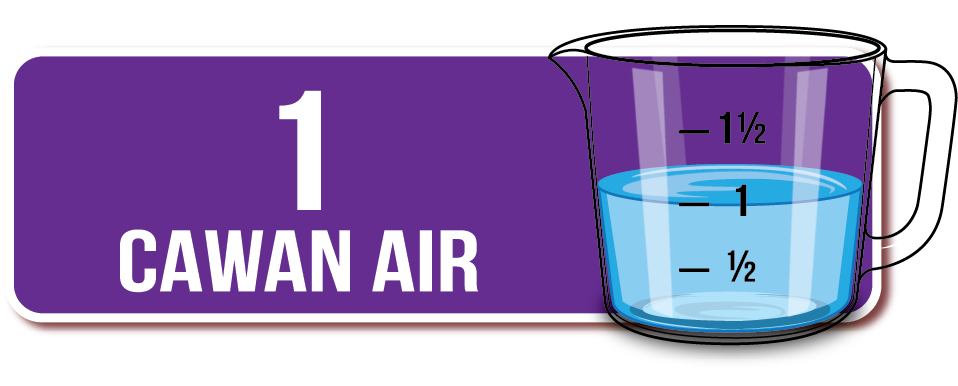
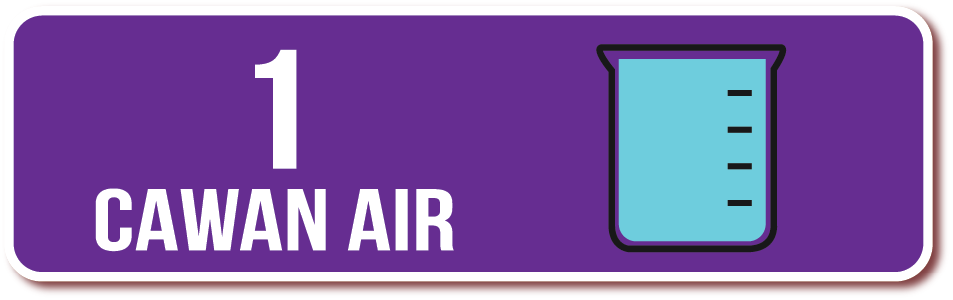
[Phase 6/Task 2] Swap the three measure bars to the new sprites and move Basmathi to 1.8 cawan air - the top bar was relabelled by the client
=== TECHNICAL CHANGES ===
• img/bar-1-8.png: new green 1.8 CAWAN AIR sprite (953x299) replaces bar-1half.png, which is removed; img/bar-1.png and img/bar-half.png overwritten with the matching new purple and orange sprites (953x300) - tight plate crops, no jug overhang
• index.html: top measure bar is now id opt-1-8 / data-water 1.8 / alt 1.8 cawan air, pointing at bar-1-8.png; the other two bars keep their ids and srcs
• script/js/game.js: ANSWER_KEY.basmathi '1.5' -> '1.8'; doc comment now states the 1.8 ratio and notes the relabel; isCorrectWater param doc lists 1.8 / 1 / 0.5
• style/css/layout.css: SCREEN 2 block rewritten - #opt-1half renamed #opt-1-8; all three bars share left 5.92% / width 88.16% / height 15.62% (953x300 centred at x 64); tops 47.68% / 64.86% / 82.04% keep the design-02 plate rows at board y 918 / 1248 / 1578 with the new sprites' 2px margin accounted for
• style/css/base.css: --color-green-water comment updated to the 1.8 cawan row
• README.md: Basmathi answer row and the flow line now read 1.8 cawan air

=== SESSION CONTEXT ===
• Project: Jasmine Rice Game | Phase: 6/6 Task 2 | Type: development | Time: 5 min
• Company: Five Senses Enterprise
• Emotional Depth: MEDIUM - Alice caught the 1.8 relabel on the new sprite and Kiyo ruled the answer key follows the art
• Leadership: Kiyo confirmed Basmathi -> 1.8 | Alice: re-derived the bar geometry for the tighter sprites and kept the answer rule in its single source of truth

diff --git a/style/css/layout.css b/style/css/layout.css
@@ -89,34 +89,32 @@
 
 /* ------------------------------------------------
    SCREEN 2 - measure bars
-   Colour rect inside each sprite starts at x 14 and the board rect
-   starts at x 82, so every bar offsets by left 68.
-   Green  sprite rect top y 64 -> board y 918  (offset 854)
-   Purple sprite rect top y 57 -> board y 1248 (offset 1191)
-   Orange sprite rect top y 56 -> board y 1578 (offset 1522)
-   Board row pitch is a constant 330px, which is what pinned the green
-   bar - scanning for it directly is unusable because the paddy artwork
-   behind the board is the same family of greens.
+   Aug 22 art drop: 953x300 sprites cropped tight to the plate (about
+   2px of transparent margin, no jug overhanging the top any more).
+   Rows keep the design-02 placement - plate tops at board y 918, 1248,
+   1578 (pitch 330) - so with the plate starting at sprite y 2 the
+   sprite tops are 916, 1246, 1576. Centred at left 64 ((1081-953)/2).
+   The orange bar bottoms out at 1876, inside the 1921 board, sitting
+   on the table exactly as the flat design shows it.
    ------------------------------------------------ */
-#opt-1half {
-    left: 6.29%;     /* 68 / 1081 */
-    top: 44.46%;     /* 854 / 1921 */
-    width: 86.86%;   /* 939 / 1081 */
-    height: 20.09%;  /* 386 / 1921 */
+#opt-1-8,
+#opt-1,
+#opt-half {
+    left: 5.92%;     /* 64 / 1081 */
+    width: 88.16%;   /* 953 / 1081 */
+    height: 15.62%;  /* 300 / 1921 */
+}
+
+#opt-1-8 {
+    top: 47.68%;     /* 916 / 1921 */
 }
 
 #opt-1 {
-    left: 6.29%;     /* 68 / 1081 */
-    top: 61.99%;     /* 1191 / 1921 */
-    width: 88.62%;   /* 958 / 1081 */
-    height: 20.09%;  /* 386 / 1921 */
+    top: 64.86%;     /* 1246 / 1921 */
 }
 
 #opt-half {
-    left: 6.29%;     /* 68 / 1081 */
-    top: 79.23%;     /* 1522 / 1921 */
-    width: 88.62%;   /* 958 / 1081 */
-    height: 20.09%;  /* 386 / 1921 */
+    top: 82.04%;     /* 1576 / 1921 */
 }
 
 /* ================================================

diff --git a/script/js/game.js b/script/js/game.js
@@ -16,15 +16,16 @@ const Game = {
     /**
      * Correct water measure per rice type, taken from the client's
      * "Sukatan Air Yang Tepat" answer key artwork.
-     *   Beras Wangi    (Jasmine Sunwhite)   -> 1 cawan air     bagi 1 cawan beras
-     *   Beras Basmathi (Jasmine Pusa Cream) -> 1 1/2 cawan air bagi 1 cawan beras
-     * 1/2 cawan is never correct for either.
+     *   Beras Wangi    (Jasmine Sunwhite)   -> 1 cawan air   bagi 1 cawan beras
+     *   Beras Basmathi (Jasmine Pusa Cream) -> 1.8 cawan air bagi 1 cawan beras
+     * 1/2 cawan is never correct for either. (Basmathi was 1 1/2 until the
+     * Aug 22 art drop relabelled the top bar to 1.8.)
      *
      * Values match the data-water attributes in index.html.
      */
     ANSWER_KEY: {
         wangi: '1',
-        basmathi: '1.5'
+        basmathi: '1.8'
     },
 
     /**
@@ -50,7 +51,7 @@ const Game = {
 
     /**
      * Screen 2 - player picked a water measure
-     * @param {String} choice - "1.5", "1" or "0.5"
+     * @param {String} choice - "1.8", "1" or "0.5"
      * @returns {Boolean} Whether the choice is correct for the chosen rice
      */
     isCorrectWater(choice) {

diff --git a/index.html b/index.html
@@ -37,8 +37,8 @@
              ======================================== -->
         <div id="water-screen" class="screen hidden">
             <img class="stage" src="img/board-water.png" alt="">
-            <img class="option touchable" id="opt-1half" data-water="1.5"
-                 src="img/bar-1half.png" alt="1 1/2 cawan air">
+            <img class="option touchable" id="opt-1-8" data-water="1.8"
+                 src="img/bar-1-8.png" alt="1.8 cawan air">
             <img class="option touchable" id="opt-1" data-water="1"
                  src="img/bar-1.png" alt="1 cawan air">
             <img class="option touchable" id="opt-half" data-water="0.5"

diff --git a/style/css/base.css b/style/css/base.css
@@ -14,7 +14,7 @@
     --color-primary: #EA292C;       /* Jasmine brand red - logo plate, title ribbons */
     --color-red-deep: #AB2325;      /* SALAH ribbon, X circle, CUBA LAGI button */
     --color-green-correct: #1E6634; /* BETUL ribbon, tick circle, TERUSKAN button */
-    --color-green-water: #3F8F6A;   /* 1 1/2 cawan option row */
+    --color-green-water: #3F8F6A;   /* 1.8 cawan option row */
     --color-purple: #672D93;        /* 1 cawan option row */
     --color-orange: #F1592A;        /* 1/2 cawan option row */
     --color-cream: #FED5B7;         /* paddy background wash */

diff --git a/README.md b/README.md
@@ -18,7 +18,7 @@ The correct water measure depends on which rice was chosen:
 | Rice | Product | Correct answer |
 |---|---|---|
 | Beras Wangi | Jasmine Sunwhite | **1 cawan air** |
-| Beras Basmathi | Jasmine Pusa Cream | **1 1/2 cawan air** |
+| Beras Basmathi | Jasmine Pusa Cream | **1.8 cawan air** |
 
 1/2 cawan is never correct for either. Source: the client's "Sukatan Air Yang Tepat"
 answer key artwork.
@@ -33,7 +33,7 @@ are ever revised, that object is the only thing to change.
       |  tap Beras Wangi or Beras Basmathi
       v
 (2) PILIH SUKATAN AIR
-      |  tap 1 1/2 / 1 / 1/2 cawan
+      |  tap 1.8 / 1 / 1/2 cawan
       +-- wrong --> (3) SALAH  --[CUBA LAGI]--> back to (2), rice choice KEPT
       +-- right --> (4) BETUL  --[TERUSKAN]--> back to (1), full reset
 ```
